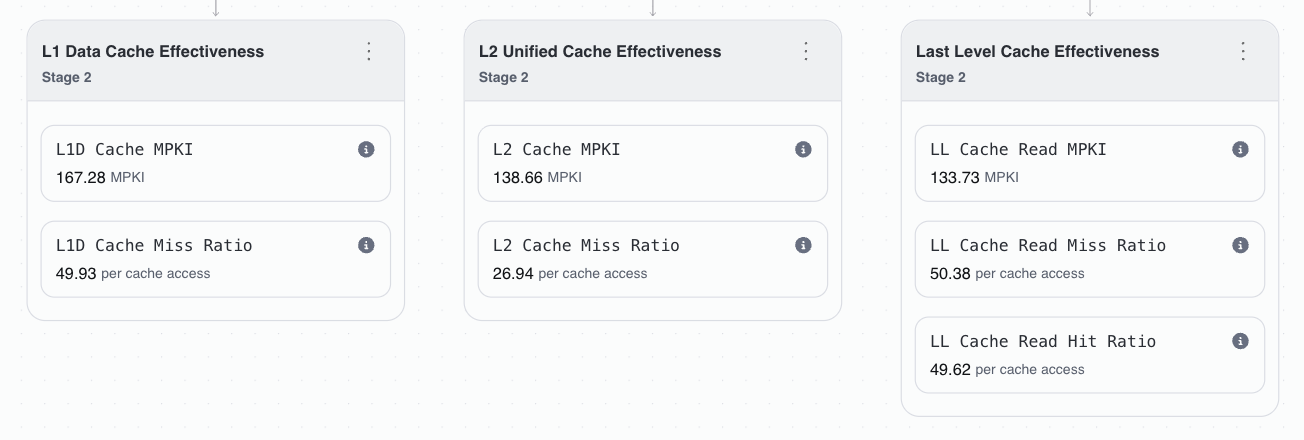
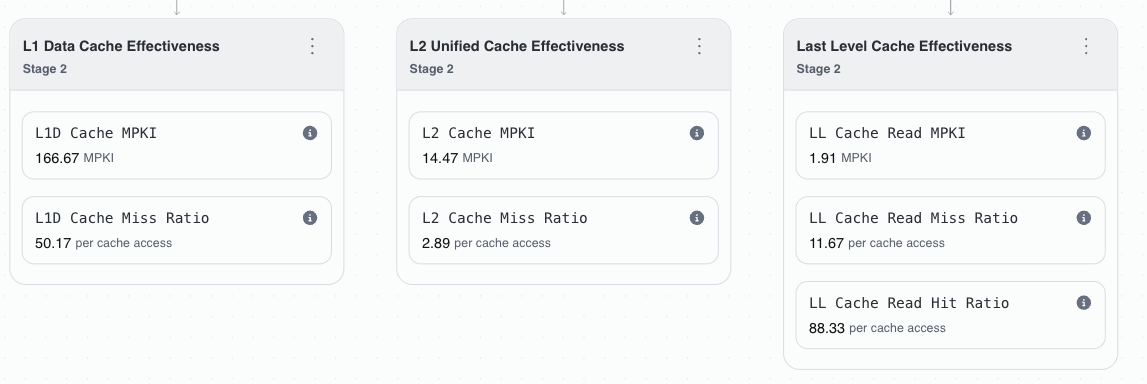
updating instructions and workloads

diff --git a/tutorial_1/src/matmul_naive.cpp b/tutorial_1/src/matmul_naive.cpp
@@ -8,9 +8,9 @@
 // Naive ijk ordering — the inner loop accesses B[k*N+j] with stride N,
 // jumping across rows on every iteration. For N=8192 each stride is 32 KB,
 // far exceeding a cache line.  The full B matrix (256 MB) does not fit in
-// the last-level cache (32 MB on Graviton3), so almost every B access
-// results in an LLC miss and a trip to DRAM.  This makes the workload
-// heavily Backend Bound → Memory Bound in the Top-Down model.
+// the last-level cache (32 MB on Graviton3), so this access pattern causes
+// frequent misses throughout the cache hierarchy and enough DRAM traffic to
+// make the workload heavily Backend Bound → Memory Bound in the Top-Down model.
 //
 // M is kept small (512) to limit runtime while preserving the memory
 // access profile on B — every row of A still sweeps the entire B matrix.

diff --git a/tutorial_1/src/matmul_neon.cpp b/tutorial_1/src/matmul_neon.cpp
@@ -17,9 +17,9 @@
 // B-tile packing:
 //   Before the micro-kernel runs, the B tile is copied into a contiguous
 //   micro-panel layout.  In the original code the innermost k-loop
-//   accessed B[k*N+j] with stride N (one cache-line miss every few
-//   iterations).  After packing, the k-loop reads B sequentially,
-//   turning almost every access into an L1d hit.
+//   accessed B[k*N+j] with stride N. After packing, the k-loop reads B
+//   sequentially, greatly improving spatial locality and reducing the
+//   amount of traffic that falls through to deeper cache levels.
 //
 // Each vfmaq_n_f32 performs 4 multiply-adds in a single instruction,
 // giving 4× the work-per-instruction of the scalar tiled version.

diff --git a/tutorial_1/instructions.md b/tutorial_1/instructions.md
@@ -97,8 +97,8 @@ You should see output in this form, with the exact timing and GFLOPS depending o
 
 ```text
 Naive matmul (256x1024 * 1024x8192)
-  Time:  4194.27 ms
-  GFLOPS: 1.02401
+  Time:  6132.41 ms
+  GFLOPS: 0.700372
   Check:  C[0]=210.939 C[M*N-1]=211.055
 ```
 
@@ -134,7 +134,7 @@ ATP will collect hardware performance counter data for approximately 30 seconds.
 
 <img src="assets/naive_topdown.png" width="850" alt="ATP Topdown summary for naive matmul"/>
 
-Look at the four top-level bars. **Backend Bound** dominates at roughly 85%. This tells you that the frontend is supplying micro-ops adequately, but the backend cannot execute them fast enough because it is stalled. Retiring is low at around 15%, meaning most of the CPU's capacity is wasted waiting rather than doing useful work.
+Look at the four top-level bars. **Backend Bound** dominates at roughly 80%. This tells you that the frontend is supplying micro-ops adequately, but the backend cannot execute them fast enough because it is stalled. Retiring is low at around 10%, meaning most of the CPU's capacity is wasted waiting rather than doing useful work.
 
 **Your diagnosis so far:** The bottleneck is in the backend. But *what* in the backend? Memory latency? Execution unit contention? The next step is to narrow it down.
 
@@ -144,17 +144,25 @@ From the Summary view, we already know the workload is strongly **Backend Bound*
 
 <img src="assets/naive_cache_effectiveness.png" width="850" alt="Cache miss ratios for naive matmul"/>
 
-The miss ratios tell a clear story. At **L1D**, nearly half of all data loads miss the cache (around 49%). Of those that reach **L2**, roughly a quarter miss again (24%). At the **LLC**, the situation is worst: around 61% of accesses miss, meaning the data has to travel all the way to DRAM.
+The cache metrics show that the naive kernel uses the hierarchy badly, especially at **L1D**, so many loads have to fall through to lower levels before they hit.
 
-The LLC miss ratio is the critical number here. A 61% miss rate at the last-level cache means the majority of memory requests cost hundreds of cycles each. This is why the number of slots occupied by the backend is so high.
+At **L1D**, the signal is strongest: about **166.7 misses per 1000 instructions (MPKI)** and an **L1D miss ratio of about 50%**. The core is missing in L1D constantly, which is exactly what you would expect from the strided `B[k*N + j]` access pattern.
+
+At **L2**, the pressure is much lower but still visible: roughly **14.5 MPKI** and an **L2 miss ratio of about 2.9%**. Most L1D misses are recovered in L2, but not all.
+
+At the **last-level cache**, ATP shows about **1.9 LLC read misses per 1000 instructions** and an **LL cache read miss ratio of about 11.7%**. Most requests that reach LLC hit there, and only the remainder spill to DRAM.
+
+The key point is simple: the naive kernel wastes a huge amount of time missing in **L1D**, and enough of those misses continue down the hierarchy to keep the backend stalled waiting on data.
 
 ### Step 4: Connect the diagnosis to the code
 
-Now you know *what* the bottleneck is: LLC misses caused by the `B[k*N + j]` access pattern. In this tutorial's default problem size, `N = 8192`, so each increment of `k` moves to the next row of `B` and jumps ahead by 8192 `float` elements in memory. That creates a large strided access pattern rather than a contiguous one.
+Now you know *what* the bottleneck is: poor cache locality caused by the `B[k*N + j]` access pattern. In this tutorial's default problem size, `N = 8192`, so each increment of `k` jumps ahead by 8192 `float` elements in memory instead of reading `B` contiguously.
 
-The full `B` matrix is 256 MB, far exceeding the ~32 MB LLC. With accesses spread so widely through memory, the cache cannot retain the needed data effectively, and many of those loads end up going to DRAM.
+This is why the **L1D miss ratio is so high**. The inner loop touches data that is far apart in memory, so it gets very little reuse at the top of the hierarchy. Many of those misses are recovered in L2 or LLC, but some still continue to DRAM.
 
-**Complete diagnosis: Backend Bound -> Memory Bound -> LLC misses, caused by strided B access.**
+The full `B` matrix is 256 MB, far exceeding the ~32 MB LLC, so the cache hierarchy cannot retain the needed data effectively as the loop walks through `B`.
+
+**Complete diagnosis: Backend Bound -> Memory Bound -> poor cache locality from strided B access, with severe L1D misses and some spillover to deeper cache levels and DRAM.**
 
 Now that the bottleneck is clear, the next step is to change the loop structure so the working set stays in cache.
 
@@ -162,9 +170,9 @@ Now that the bottleneck is clear, the next step is to change the loop structure 
 
 ## 3. Fix and Re-Profile: 2D Tiling
 
-The solution to LLC misses is to keep the working set in cache. For matrix multiplication, the standard way to do this is **2D tiling**: split the loops into smaller blocks so the inner computation reuses sub-blocks of `A`, `B`, and `C` while they still fit in L2.
+The solution to poor cache locality is to keep the working set in cache. For matrix multiplication, the standard way to do this is **2D tiling**: split the loops into smaller blocks so the inner computation reuses sub-blocks of `A`, `B`, and `C` while they are still resident in the cache hierarchy.
 
-The tiled kernel in `src/matmul_tiled.cpp` uses `TILE=128`. A `128x128` tile of `float`s is 64 KB, so one tile each from `A`, `B`, and `C` totals about 192 KB, which fits comfortably within Graviton3's 1 MB L2 cache:
+The tiled kernel in `src/matmul_tiled.cpp` uses `TILE=128`. A `128x128` tile of `float`s is 64 KB, so one tile each from `A`, `B`, and `C` totals about 192 KB. That is much easier for the cache hierarchy to handle than the naive kernel's much larger active working set:
 
 ```cpp
 constexpr int TILE = 128;
@@ -194,21 +202,25 @@ Run the Topdown recipe again, this time on `matmul_tiled`. Always re-profile aft
 
 <img src="assets/tiled_topdown.png" width="850" alt="ATP Topdown summary for tiled matmul"/>
 
-Comparing the Summary view with the naive run, the improvement is dramatic. **Retiring** jumped from ~15% to 66.5%, meaning the pipeline is now doing useful work most of the time. **Backend Bound** dropped from ~70% to 18.9%, showing that memory stalls have been largely eliminated.
+Comparing the Summary view with the naive run, the improvement is dramatic. **Retiring** jumped from ~8% to 66.5%, meaning the pipeline is now doing useful work most of the time. **Backend Bound** dropped from ~78% to 19%, showing that memory stalls have been largely eliminated.
 
 To confirm that this shift really comes from better locality, check cache effectiveness in the Functions tab:
 
 <img src="assets/tiled_cache_effectiveness.png" width="850" alt="Cache metrics for tiled matmul"/>
 
-The cache numbers confirm the fix worked. L1D misses dropped from ~49% to just 2.4% because the inner loop's working set now fits in L1. L2 misses fell to effectively 0% because the full 64 KB tile fits comfortably in L2. LLC misses are also gone, meaning DRAM access has been eliminated entirely.
+The cache numbers confirm the fix worked. Compared with the naive kernel, the tiled version shows dramatically better cache behaviour, especially at **L1D**, and essentially eliminates meaningful traffic to deeper cache levels.
 
-The LLC bottleneck is gone. That means the original memory problem has largely been removed. The diagnosis has now shifted: **Retiring** dominates, so the next question is what kind of instructions make up that useful work.
+At **L1D**, **Cache MPKI** falls from about **166.7** to **9.9**, and the **miss ratio** drops from about **50%** to **2.34%**. In other words, the vast majority of data accesses now hit in L1D.
+
+At **L2** and **LLC**, the metrics are effectively zero in this run, which means very little traffic is falling out of L1D before being reused.
+
+The optimisation has done its job: the tiled kernel has turned a poor-locality, memory-bound access pattern into one that is served almost entirely from L1D. The original memory bottleneck has largely been removed. The diagnosis has now shifted: **Retiring** dominates, so the next question is what kind of instructions make up that useful work.
 
 ### New diagnosis: inspect the Retiring breakdown
 
 With the memory bottleneck removed, look at the **Retiring** breakdown. In ATP, the **Speculative Operation Mix** panel shows what kinds of instructions are contributing to Retiring:
 
-<img src="assets/tiled_retiring.png" width="400" alt="Operation mix for tiled matmul"/>
+<img src="assets/tiled_retiring.png" width="200" alt="Operation mix for tiled matmul"/>
 
 The operation mix reveals the next problem. Loads account for 28.3% of operations, stores 14.0%, integer operations 29.1%, floating-point scalar operations 14.0%, and **Advanced SIMD 0%**. In other words, Retiring is high, but the arithmetic is still entirely scalar. Every multiply-add is processing one `float` at a time. Arm NEON can process 4 floats per instruction, so the code is leaving roughly 4x throughput on the table.
 
@@ -279,9 +291,9 @@ void matmul_neon(const float* A, const float* B, float* C, int M, int K, int N) 
 
 Run the Topdown recipe on `matmul_neon`. Since the goal of this change was to introduce SIMD arithmetic, go straight to the **Speculative Operation Mix** to verify that the instruction mix has changed:
 
-<img src="assets/neon_retiring.png" width="400" alt="Operation mix for NEON matmul"/>
+<img src="assets/neon_retiring.png" width="350" alt="Operation mix for NEON matmul"/>
 
-The result confirms the optimisation worked. Scalar floating-point dropped from 14% to 0%, and **Advanced SIMD** jumped from 0% to 31.6%. Every multiply-add is now a NEON instruction processing 4 floats at once. Each iteration of the inner k-loop performs 4 vector FMAs (16 FLOPs) from roughly 5 memory operations, a much better compute-to-memory ratio than the scalar version.
+The result confirms the optimisation worked. Scalar floating-point dropped from 14% to 0%, and **Advanced SIMD** jumped from 0% to 31%. Every multiply-add is now a NEON instruction processing 4 floats at once. Each iteration of the inner k-loop performs 4 vector FMAs (16 FLOPs) from roughly 5 memory operations, a much better compute-to-memory ratio than the scalar version.
 
 ---
 
@@ -295,7 +307,7 @@ Run all three back-to-back and compare your ATP profiles:
 ./matmul_neon
 ```
 
-Across the three optimisation steps, the ATP Topdown view tells a consistent story of progress. For the naive kernel, Backend Bound dominates at around 70%, LLC misses are at 61%, and SIMD utilisation is 0%. After tiling, Retiring dominates at 66% and both LLC misses and Backend Bound drop to near zero, but SIMD remains at 0%. After adding NEON register blocking, SIMD utilisation reaches ~32% and Backend Bound stays minimal.
+Across the three optimisation steps, the ATP Topdown view tells a consistent story of progress. For the naive kernel, Backend Bound dominates, the cache metrics show poor locality, and SIMD utilisation is 0%. After tiling, Retiring becomes dominant and L1D miss activity drops sharply, but SIMD remains at 0%. After adding NEON register blocking, SIMD utilisation rises substantially and Backend Bound stays low.
 
 The diagnostic workflow follows the same pattern at each step. For the naive kernel, ATP pointed to Backend Bound, which narrowed to Memory Bound and then LLC misses caused by strided B access. The fix was 2D tiling to keep tiles in L2. For the tiled kernel, ATP showed Retiring was dominant but SIMD was 0%, pointing to scalar arithmetic as the bottleneck. The fix was a NEON 4x4 micro-kernel. After the NEON version, SIMD utilisation is at 31.6% and Backend Bound is minimal, indicating the workload is now compute-efficient.
 
@@ -307,7 +319,7 @@ The key is that **ATP told us what to fix at each step**. The Topdown Summary po
 
 **Follow the Top-Down workflow.** The pattern is: Summary view -> dominant bucket -> narrow the diagnosis -> connect to code -> fix -> re-profile. This is the loop you will use in every tutorial in this course.
 
-**Backend Bound combined with a high LLC miss ratio** means your working set does not fit in cache. The fix is to tile your loops or restructure your data access so that the inner computation operates on smaller blocks.
+**Backend Bound combined with persistent miss activity at deeper cache levels** means your working set does not fit in cache well enough. The fix is to tile your loops or restructure your data access so that the inner computation operates on smaller blocks.
 
 **High Retiring with 0% SIMD** means the pipeline is busy but processing only one element at a time. Vectorising with NEON intrinsics can deliver up to 4x throughput improvement for 32-bit float arithmetic.
 
